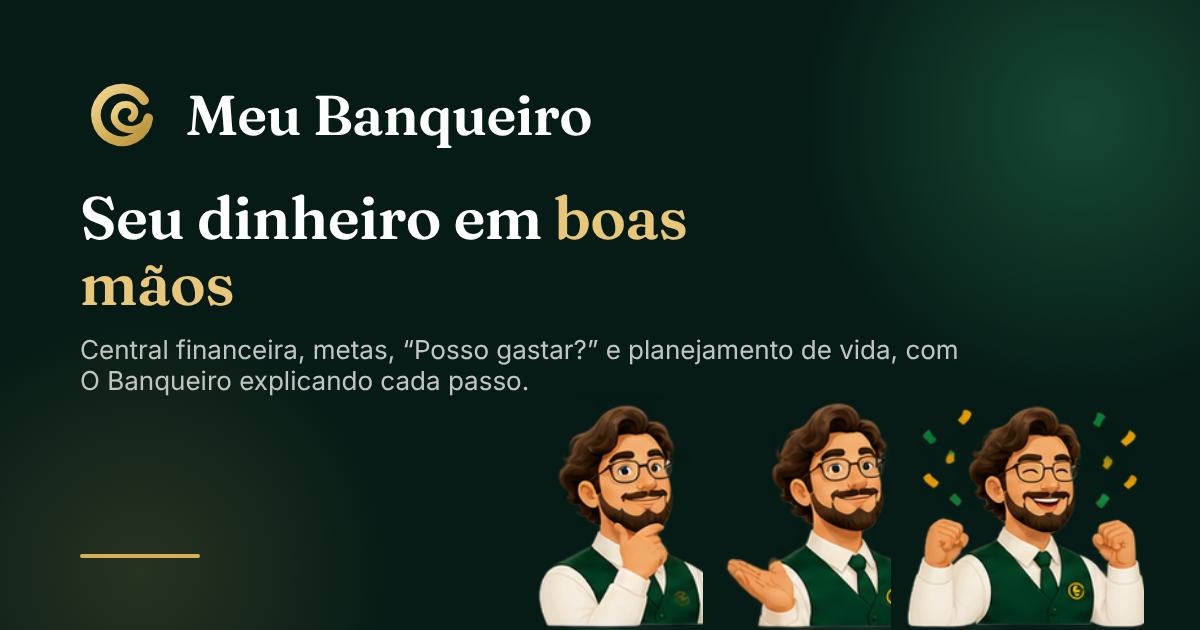
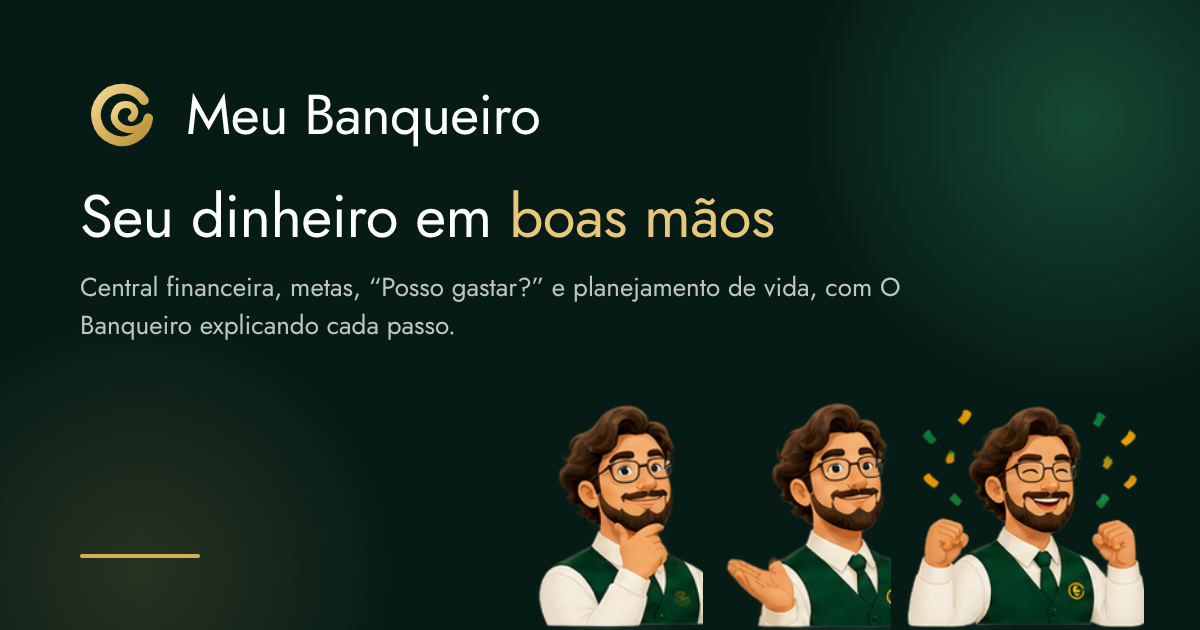
Fonte Jost em todo o sistema (#17)
* Novo NEXO, etapa 3: Conectar banco pelo Open Finance dentro do app

- Botão "Conectar meus bancos" abre a janela oficial da Pluggy no próprio
  NEXO: a pessoa escolhe o banco, autoriza no app dele e a conexão nasce
  sincronizada e categorizada. Sem Item ID, sem painel da Pluggy.
- Renovar autorização reabre a mesma conexão; "Desconectar" e "Apagar o
  que veio dela" continuam.
- Sincronização diária automática (vercel.json, 06:00 de Brasília) de
  todas as conexões ativas, cada uma falhando sozinha. Com CRON_SECRET
  exige o segredo; sem ele, aceita só a chamada da Vercel com intervalo
  mínimo de 20 minutos.
- Categoria informada pelo banco (Open Finance) entra na categorização.
- Tela Conectar banco refeita: um botão, a lista de bancos com estado e
  última atualização, importação de extrato como alternativa.

Claude-Session: https://claude.ai/code/session_01QCYFPPhLxDwyDTBmG4xz3Y

* Novo NEXO, etapa 4: Metas unificadas, menu Mais enxuto e Recomeçar do zero

- Metas reúne metas, reserva de emergência e aposentadoria em abas internas
  (PlanTabs), com resumo de uma linha da reserva e da aposentadoria no topo.
- Menu "Mais" do celular reduzido a três grupos (Dinheiro, Planejar, Conta):
  Agenda vive em Início; reserva e aposentadoria, em Metas.
- "Recomeçar do zero" em Configurações: apaga contas, cartões, lançamentos,
  importações, metas, reserva, aposentadoria, patrimônio, conexões (revogando
  no fornecedor), conversas e memória do assistente, briefing e mascote;
[…]

diff --git a/src/app/globals.css b/src/app/globals.css
@@ -5,12 +5,13 @@
 /*
  * Design system Meu Banqueiro: "Premium Editorial Finance" (ver docs/05-design-system.md).
  * Verde profundo como estrutura, verde de ação para botões e progresso, dourado em detalhes.
- * Creme no tema claro, verde quase preto no escuro. Serifa editorial (Fraunces) em títulos e
- * números grandes; Inter no resto. Cores semânticas são variáveis redefinidas em `.dark`.
+ * Creme no tema claro, verde quase preto no escuro. Jost (geométrica, livre) em todo o texto:
+ * títulos e números grandes no peso normal, corpo no normal e destaques em negrito. Cores
+ * semânticas são variáveis redefinidas em `.dark`.
  */
 @theme {
-  --font-sans: "Inter Variable", "Inter", ui-sans-serif, system-ui, sans-serif;
-  --font-display: "Fraunces Variable", "Fraunces", Georgia, "Times New Roman", serif;
+  --font-sans: "Jost Variable", "Jost", ui-sans-serif, system-ui, sans-serif;
+  --font-display: "Jost Variable", "Jost", ui-sans-serif, system-ui, sans-serif;
 
   /* Verde institucional (estrutura): claro → escuro. */
   --color-forest-50: #eef4f1;
@@ -249,17 +250,14 @@
     background: var(--canvas);
     color: var(--ink);
     font-family: var(--font-sans);
-    /* Algarismos tabulares só nos valores (classe tabular-nums): no texto todo, o Inter alarga o hífen ("Bem - vindo"). */
-    font-feature-settings: "cv11" 1;
   }
-  /* Títulos em serifa editorial, com a óptica da fonte ajustada ao tamanho. */
+  /* Títulos na Jost em peso normal, traço fino como na marca. */
   h1,
   h2,
   h3 {
     font-family: var(--font-display);
-    font-optical-sizing: auto;
     letter-spacing: -0.01em;
-    font-weight: 600;
+    font-weight: 400;
   }
   html {
     transition: background-color 0.2s ease;
@@ -419,4 +417,15 @@ form:has(select[name="forma"] option[value="cartao"]:checked) .card-payment-fiel
     border-left: 1px solid var(--line);
     padding-left: 1.5rem;
   }
+}
+
+/*
+ * Títulos de página (h1) e números de destaque (font-display) no peso normal da Jost, inclusive
+ * onde o componente pede semibold: o traço fino é o da marca. Fica fora de camada para valer
+ * sobre os utilitários de peso. Subtítulos (h2, h3) com peso próprio continuam marcando a
+ * hierarquia.
+ */
+h1,
+.font-display {
+  font-weight: 400;
 }

diff --git a/src/app/layout.tsx b/src/app/layout.tsx
@@ -1,5 +1,4 @@
-import "@fontsource-variable/inter";
-import "@fontsource-variable/fraunces";
+import "@fontsource-variable/jost";
 import "./globals.css";
 import type { Metadata, Viewport } from "next";
 import { cookies } from "next/headers";

diff --git a/docs/05-design-system.md b/docs/05-design-system.md
@@ -32,8 +32,9 @@ Escalas completas: `forest-50…950` (institucional `forest-700` `#064B3B`, prof
 
 ## Tipografia
 
-- **Fraunces Variable** (serifa editorial, `font-display`) em `h1`–`h3`, títulos de seção e números de destaque; peso 600, espaçamento −1 %, tamanho óptico automático.
-- **Inter Variable** (`font-sans`) no corpo, rótulos, botões, tabelas e formulários; números tabulares por padrão.
+- **Jost Variable** (geométrica, licença livre OFL) em todo o sistema. Foi a escolhida entre as alternativas gratuitas mais próximas da Nano Light, que é paga.
+- `font-display` (`h1`–`h3`, títulos de seção, números de destaque e a marca): peso 400, espaçamento −1 %. Uma regra fora de camada mantém o peso 400 em todo `h1` e `font-display`, mesmo onde o componente pede semibold; `h2` e `h3` com peso próprio seguem marcando a hierarquia.
+- `font-sans` (corpo, rótulos, botões, tabelas e formulários): peso 400, com 500–600 para valores e destaques; `tabular-nums` nas colunas de valores.
 - Fontes servidas localmente (`@fontsource-variable`), sem chamada a serviços externos.
 - Escala: eyebrow 11 px em caixa alta com espaçamento 0,16 em; rótulos 12 px; corpo 14–16 px; títulos de seção 20 px; títulos de página 28–36 px; indicador principal 44–56 px; totais 30–34 px.
 
